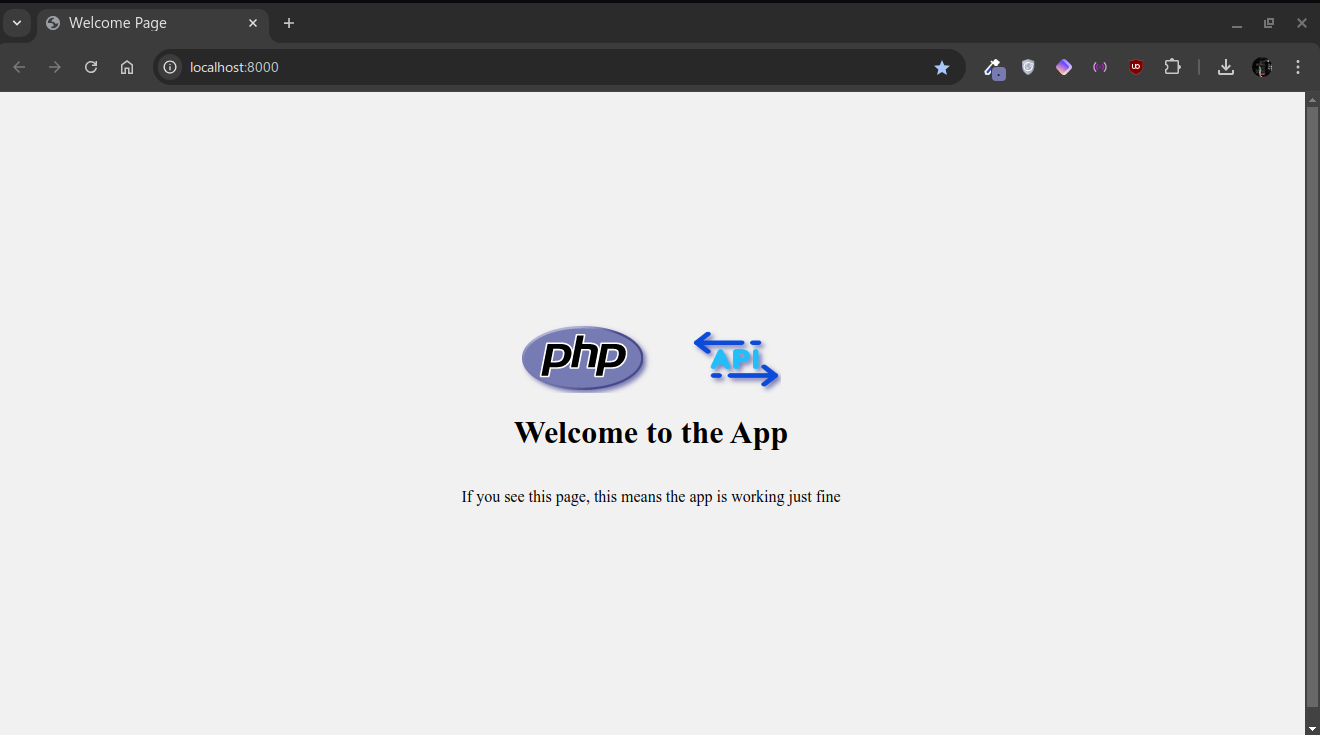
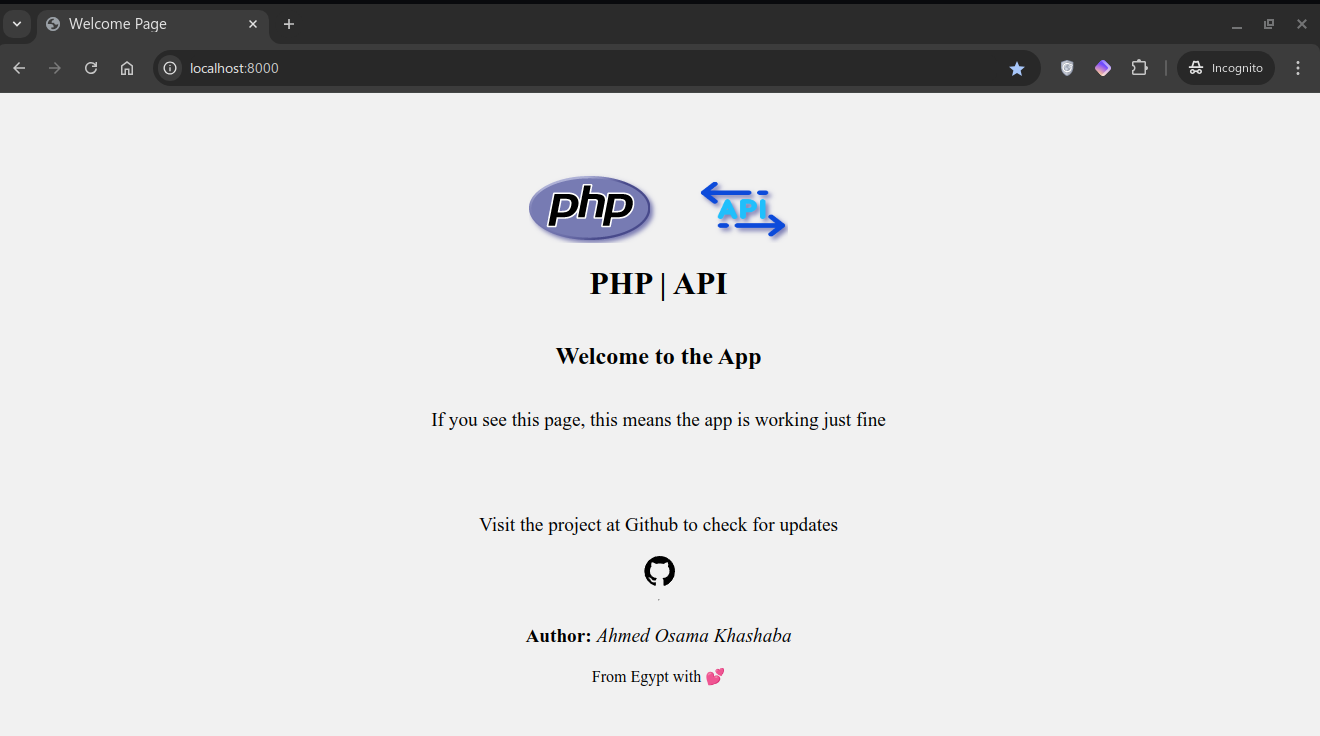
Type a lot of commnets for instruction & update the welcome screen "page", prepare the library to publish.

diff --git a/App/views/welcomePage.view.php b/App/views/welcomePage.view.php
@@ -1,5 +1,8 @@
 <?php
 
+/**
+ * This UI template is made just for the developer in order to test the APP. 
+ */
 ?>
 
 
@@ -18,9 +21,10 @@
     justify-content: center;
     flex-direction: column;
     align-items: center;
-    min-height: 100vh;
+    min-height: 90vh;
     text-align: center;
     background-color: #f1f1f1;
+    position: relative
   }
 
   .img-wrapper {
@@ -38,16 +42,50 @@
     outline: 0;
     filter: drop-shadow(3px 3px 0.15rem #797AB2);
   }
+
+  p {
+    font-size: larger;
+  }
+
+  #link {
+    margin-top: 4rem;
+  }
+
+  .footer {
+    position: absolute;
+    bottom: -20px;
+    right: 0;
+    left: 0;
+    margin: auto;
+    width: 100%;
+  }
+
+  #country {
+    font-size: 16px;
+  }
 </style>
 
 <body>
   <div class="img-wrapper">
     <img src="assets/php-icon.png" alt="PHP logo">
     <img src="assets/api-logo.png" alt="API logo" height="70" width="90">
-
   </div>
-  <h1>Welcome to the App</h1>
-  <p>If you see this page, this means the app is working just fine</p>
+
+  <h1>PHP | API</h1>
+  <h2>Welcome to the App</h1>
+    <p>If you see this page, this means the app is working just fine</p>
+    <p id="link">Visit the project at Github to check for updates</p>
+    <a href="https://github.com/Ahmed-Osama2022/php-api">
+
+      <svg height="32" aria-hidden="true" viewBox="0 0 24 24" version="1.1" width="32" data-view-component="true" class="octicon octicon-mark-github v-align-middle color-fg-default">
+        <path d="M12.5.75C6.146.75 1 5.896 1 12.25c0 5.089 3.292 9.387 7.863 10.91.575.101.79-.244.79-.546 0-.273-.014-1.178-.014-2.142-2.889.532-3.636-.704-3.866-1.35-.13-.331-.69-1.352-1.18-1.625-.402-.216-.977-.748-.014-.762.906-.014 1.553.834 1.769 1.179 1.035 1.74 2.688 1.25 3.349.948.1-.747.402-1.25.733-1.538-2.559-.287-5.232-1.279-5.232-5.678 0-1.25.445-2.285 1.178-3.09-.115-.288-.517-1.467.115-3.048 0 0 .963-.302 3.163 1.179.92-.259 1.897-.388 2.875-.388.977 0 1.955.13 2.875.388 2.2-1.495 3.162-1.179 3.162-1.179.633 1.581.23 2.76.115 3.048.733.805 1.179 1.825 1.179 3.09 0 4.413-2.688 5.39-5.247 5.678.417.36.776 1.05.776 2.128 0 1.538-.014 2.774-.014 3.162 0 .302.216.662.79.547C20.709 21.637 24 17.324 24 12.25 24 5.896 18.854.75 12.5.75Z"></path>
+      </svg>
+    </a>
+    <hr>
+    <div class="footer">
+      <p><b>Author:</b> <i>Ahmed Osama Khashaba</i></p>
+      <p id="country">From Egypt with 💕</p>
+    </div>
 </body>
 
 </html>

diff --git a/src/Router.php b/src/Router.php
@@ -1,5 +1,11 @@
 <?php
 
+/**
+ * This file is resposible for creating the routes of your APP.
+ * it later hanles the requests from "routes.php" file.
+ * It's made for handling "CRUD" operations, and you can add more if you like
+ */
+
 namespace src;
 
 use App\controllers\ErrorController;
@@ -24,7 +30,7 @@ class Router
 
   /**
    * @methods 
-   * 
+   * NOTE: Add more if you like
    */
   public function get($uri, $controller, $middleware)
   {
@@ -53,6 +59,10 @@ class Router
   {
     $requestMethod = $_SERVER['REQUEST_METHOD'];
 
+    /**
+     * NOTE: This next function is made to handle the "DELETE" && "PUT" requests;
+     * beacuse you can't make a <form></form> in your HTML with these!
+     */
     // NOTE: Check for _method input 
     if ($requestMethod === 'POST' && isset($_POST['_method'])) {
       // Override the request method with the value of _method

diff --git a/src/Database.php b/src/Database.php
@@ -1,6 +1,8 @@
 <?php
 
 /**
+ * This file is resposible for dealing with the database.
+ * It is configured for "MySQL", and you can change it if you want.
  * NOTE: 
  * You have to spicify the namespace here 
  * In order for "psr-4" autoloader to work
@@ -29,8 +31,10 @@ class Database
     $options = [
       PDO::ATTR_ERRMODE => PDO::ERRMODE_EXCEPTION,
       PDO::ATTR_DEFAULT_FETCH_MODE => PDO::FETCH_ASSOC,
-      // OR => for a object notation >> usign it later as "$listing->title"
-      // PDO::ATTR_DEFAULT_FETCH_MODE => PDO::FETCH_OBJ,
+      /**
+     * Or => for a object notation >> PDO::ATTR_DEFAULT_FETCH_MODE => PDO::FETCH_OBJ,
+     * usign it later as => e.g. "$data->id
+     */
     ];
 
 

diff --git a/helpers.php b/helpers.php
@@ -1,5 +1,12 @@
 <?php
 
+/**
+ * This file is made to simplify usage for the developer.
+ * This file contains 'helper function' in order to use it later in any file you want in the whole APP.
+ * It will import in "public/index.php" file.
+ */
+
+
 use App\controllers\ErrorController;
 
 /**
@@ -24,7 +31,7 @@ function inspect($value)
 }
 
 /**
- * Inspect a value and kill the whole code after it
+ * Inspect a value and KILL the whole code after it
  * To check your code while you're working...
  */
 function inspectAndDie($value)
@@ -35,7 +42,7 @@ function inspectAndDie($value)
   die();
 }
 /**
- * Load a view
+ * Load a View
  */
 
 function loadView($name, $data = [])

diff --git a/App/controllers/HomeController.php b/App/controllers/HomeController.php
@@ -16,18 +16,20 @@ class HomeController
     $this->db = new Database($config);
   }
 
+  // NOTE: Please don't remove this, because it's made for you in order to be able to test your app.
   public function index()
   {
     // echo "hello world";
     loadView('welcomePage');
   }
 
-  public function hello()
+  public function test()
   {
     $data = [
-      "id" => 4,
-      'name' => 'Ahmed Osama'
+      "id" => 1,
+      'data' => 'Hello from test route'
     ];
     echo jsonData($data);
   }
+  // Start code here...
 }

diff --git a/routes.php b/routes.php
@@ -2,7 +2,7 @@
 
 /**
  * Here define your routes as the following
- * Methods available => "GET" ,"POST", "PUT", "DELETE"
+ * Methods available => "GET" ,"POST", "PUT", "DELETE" => "CRUD operations"
  * $router->method('path', 'yourController@methodIntheController', ['middlewareTypeInYourMiddlewareFramework']);
  *
  * e.g.
@@ -10,4 +10,4 @@
  */
 
 $router->get('/', 'HomeController@index', ['guest']);
-$router->get('/hello', 'HomeController@hello', ['guest']);
+$router->get('/test', 'HomeController@test', ['guest']);

diff --git a/src/Session.php b/src/Session.php
@@ -1,5 +1,10 @@
 <?php
 
+/**
+ * This file is resposible for dealing with Session at the server-side.
+ * It also contains a flash messages you could use it later to send it to the client.
+ */
+
 namespace src;
 
 class Session
@@ -104,6 +109,4 @@ class Session
     self::clear('flash_' . $key);
     return $message;
   }
-
-  // 
 }

diff --git a/src/Middleware/Authorize.php b/src/Middleware/Authorize.php
@@ -1,5 +1,14 @@
 <?php
 
+/**
+ * This middleware file is used later in your "routes.php" file as following:
+ * $router->get('/', 'HomeController@index', ['guest']);
+ * 
+ * You can add roles here as possible as you can
+ * Now it just made for 'guest' and 'auth'
+ * 
+ */
+
 namespace src\Middleware;
 
 use src\Session;

diff --git a/config/db.php b/config/db.php
@@ -1,5 +1,10 @@
 <?php
 
+/**
+ * This file is responsible for just loading the config of the database.
+ * NOTE: It uses "Dotenv" and surely looking for "/.env" file in the root folder.
+ */
+
 use Dotenv\Dotenv;
 
 // Load .env file

diff --git a/App/controllers/ErrorController.php b/App/controllers/ErrorController.php
@@ -1,5 +1,9 @@
 <?php
 
+/**
+ * This file is resposible for handling the errors.
+ * You can add more if you like, and use it later.
+ */
 
 namespace App\controllers;
 

diff --git a/public/index.php b/public/index.php
@@ -1,4 +1,8 @@
 <?php
+
+/**
+ * This is the main file responsible to start the App.
+ */
 require __DIR__ . '/../vendor/autoload.php';
 
 use src\Session;
